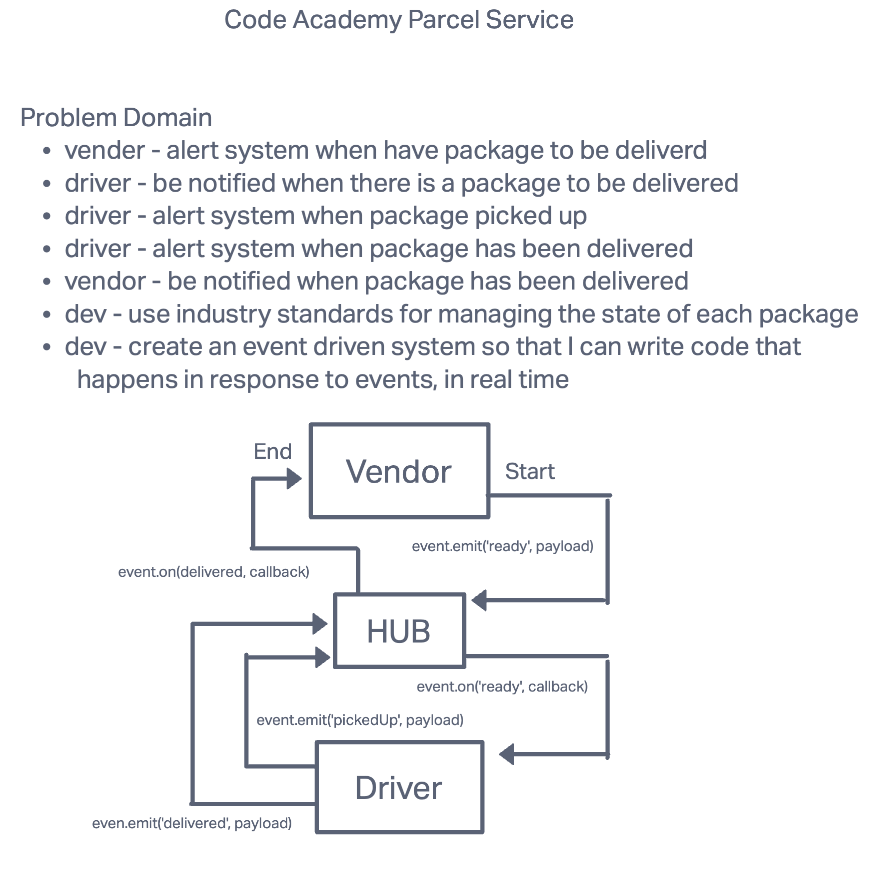
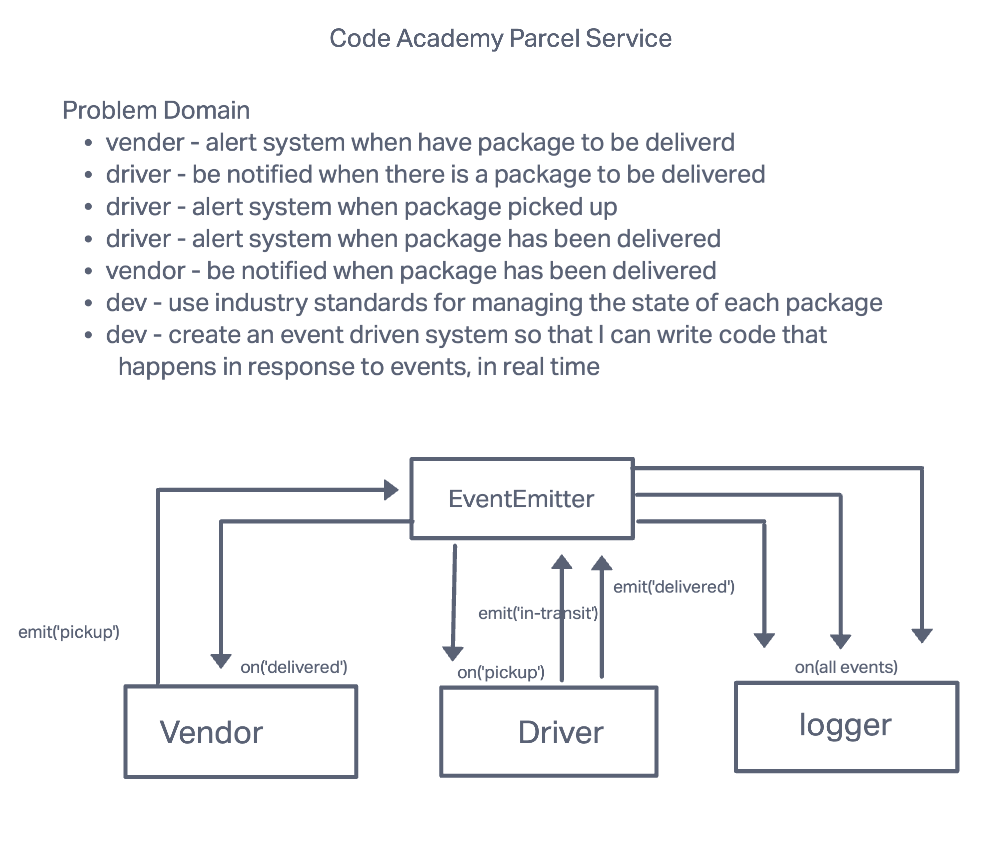
fix bugs

Changed region(s): [[0.0304, 0.1215, 0.973, 0.972], [0.2432, 0.0, 0.6689, 0.0607], [0.0, 0.729, 0.1216, 0.7593]]

diff --git a/src/events/index.js b/src/events/index.js
@@ -1,0 +1,16 @@
+const events = require('./eventEmitter');
+const eventPool = require('./eventPool');
+const driver = require('./driver');
+const vendor = require('./vendor');
+const logger = require('./logger');
+
+// logger listener
+for (let e of eventPool) {
+  events.on(e, (payload) => logger(e, payload));
+}
+
+events.on('pickup', driver);
+events.on('in-transit', () => console.log('Package in transit!'));
+events.on('delivered', vendor);
+
+module.exports = events;

diff --git a/src/events/driver/index.js b/src/events/driver/index.js
@@ -1,10 +1,11 @@
 'use strict';
-const events = require('../eventEmitter');
+const events = require('../eventEmitter.js');
 // const hub = require('../HUB');
 
 function handleDriver(payload) {
-  console.log(payload);
-  // hub('inTransit', payload);
-  hub('pickup', payload);
+  console.log('driver');
+  events.emit('in-transit', payload);
+  setTimeout(() => events.emit('delivered', payload), 3000);
 }
+
 module.exports = handleDriver;

diff --git a/index.js b/index.js
@@ -1,10 +1,8 @@
 'use strict';
-const events = require('./src/events/eventEmitter');
+// const events = require('./src/events/eventEmitter');
+const events = require('./src/events');
 
-// events.on('pick', )
-const vendor = require('./src/events/vendor');
-
-vendor({
+events.emit('pickup', {
   store: 'flowershop',
   orderId: 'asoenthuasoenthu',
   customer: 'David',

diff --git a/src/events/logger.js b/src/events/logger.js
@@ -1,0 +1,11 @@
+'use strict';
+
+function logger(event, payload) {
+  console.log({
+    event,
+    time: new Date(),
+    payload,
+  });
+}
+
+module.exports = logger;

diff --git a/src/events/eventPool.js b/src/events/eventPool.js
@@ -1,3 +1,3 @@
 'use strict';
 
-module.exports = ['pickup', 'inTransit', 'delivered'];
+module.exports = ['pickup', 'in-transit', 'delivered'];

diff --git a/README.md b/README.md
@@ -2,6 +2,10 @@
 
 Code Academy Parcel Service
 
+## Start App
+
+node index.js
+
 ## UML
 
 ![UML](uml.png)
